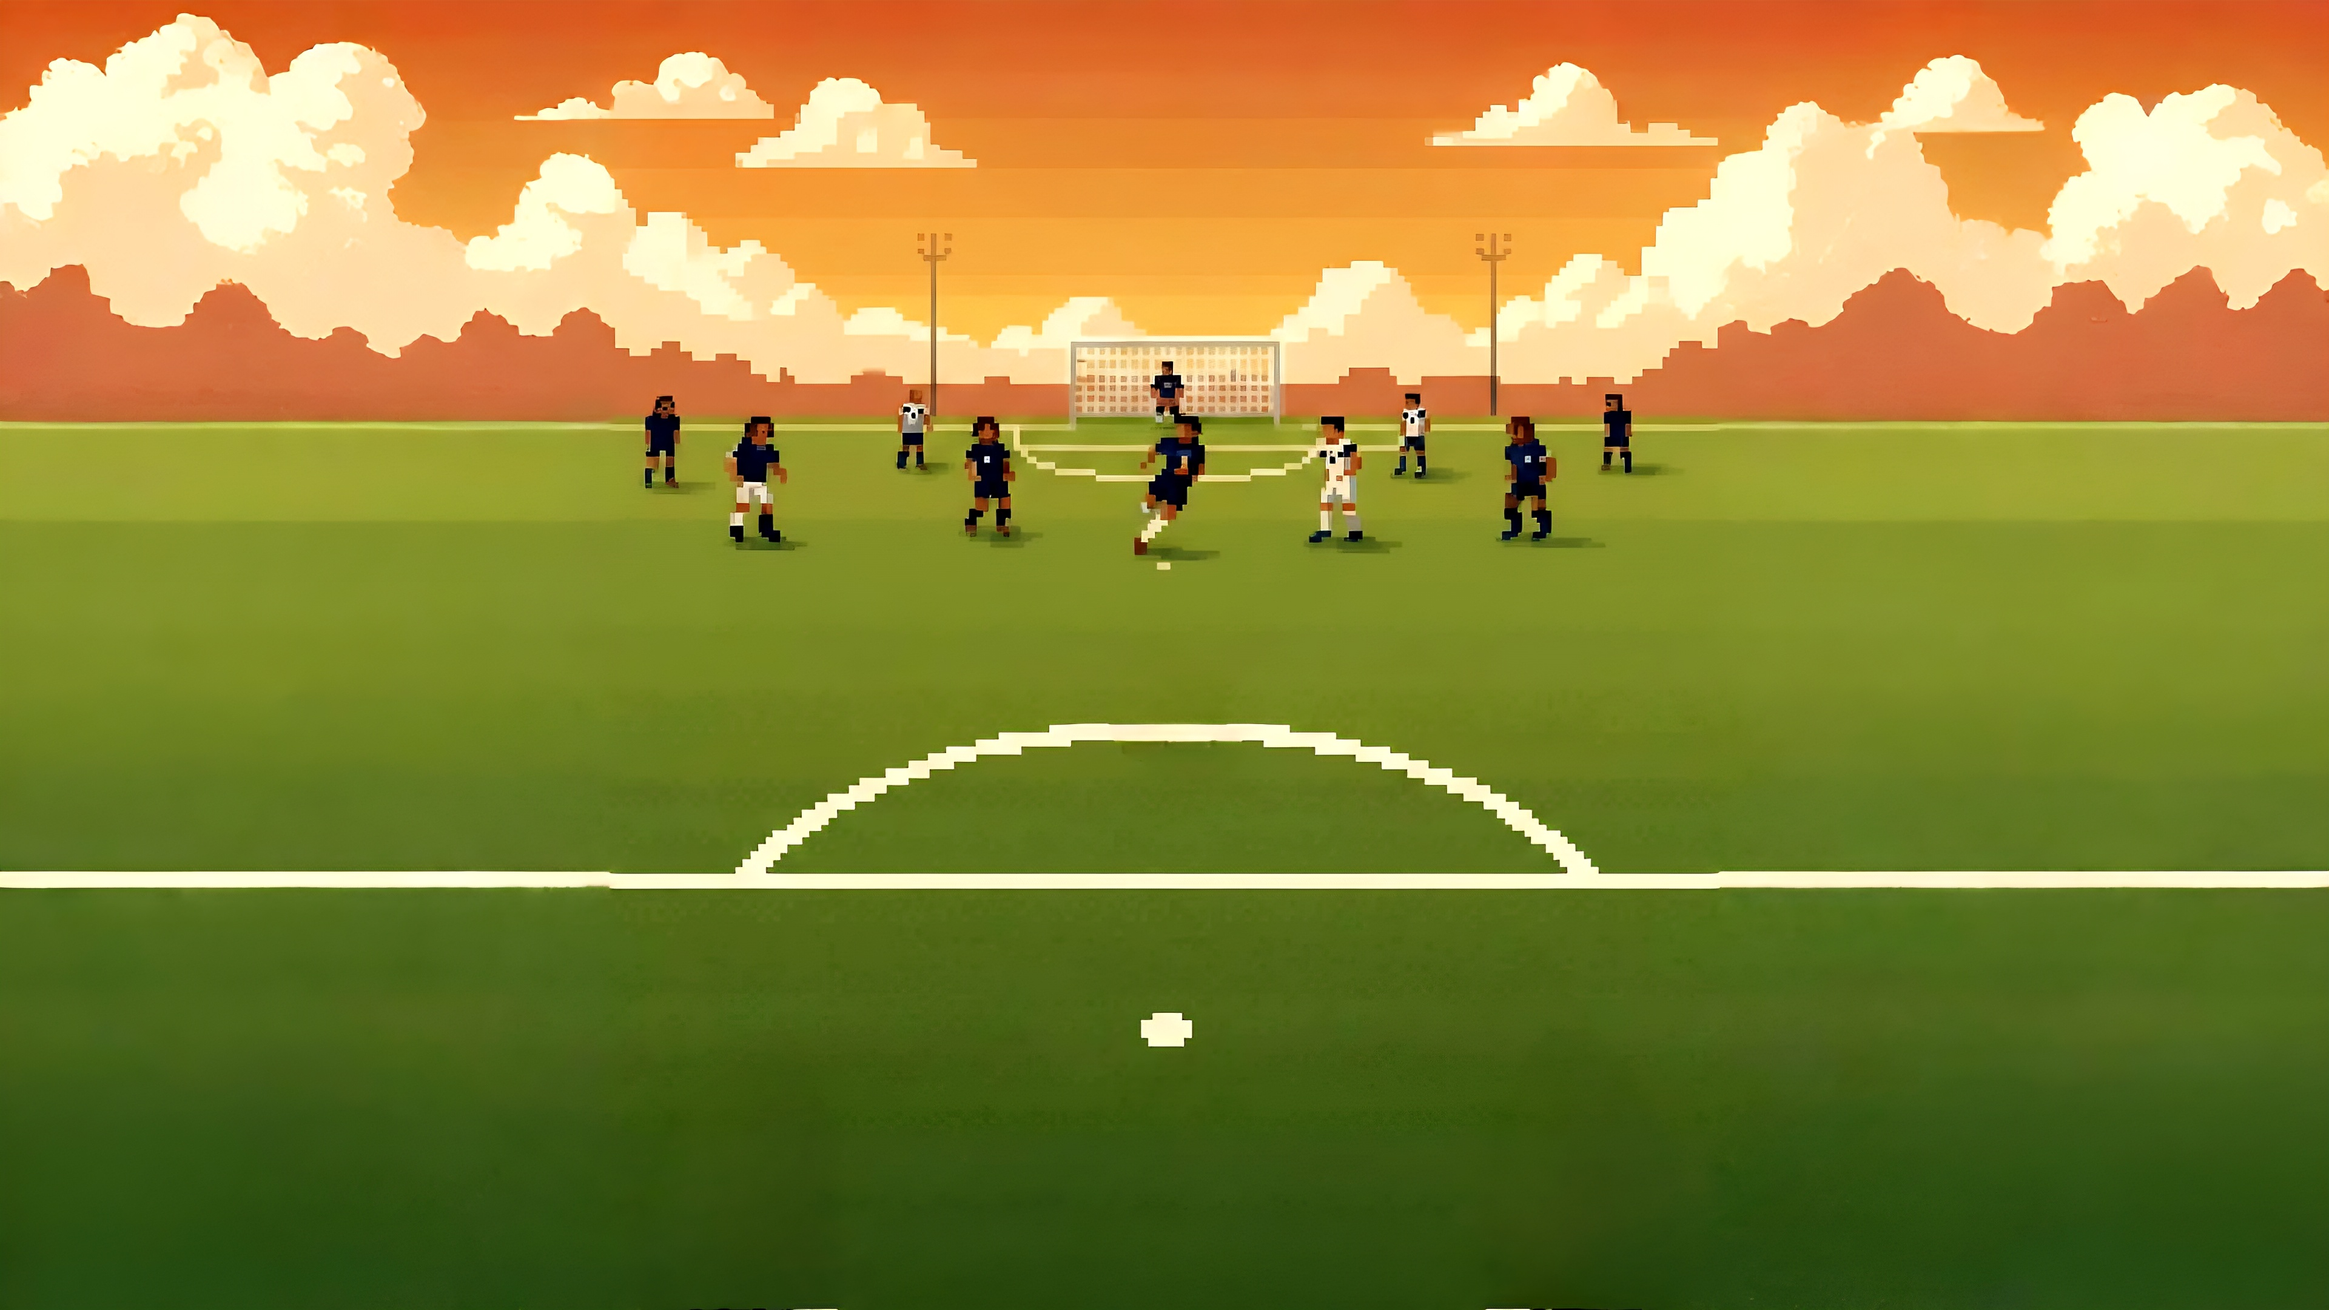
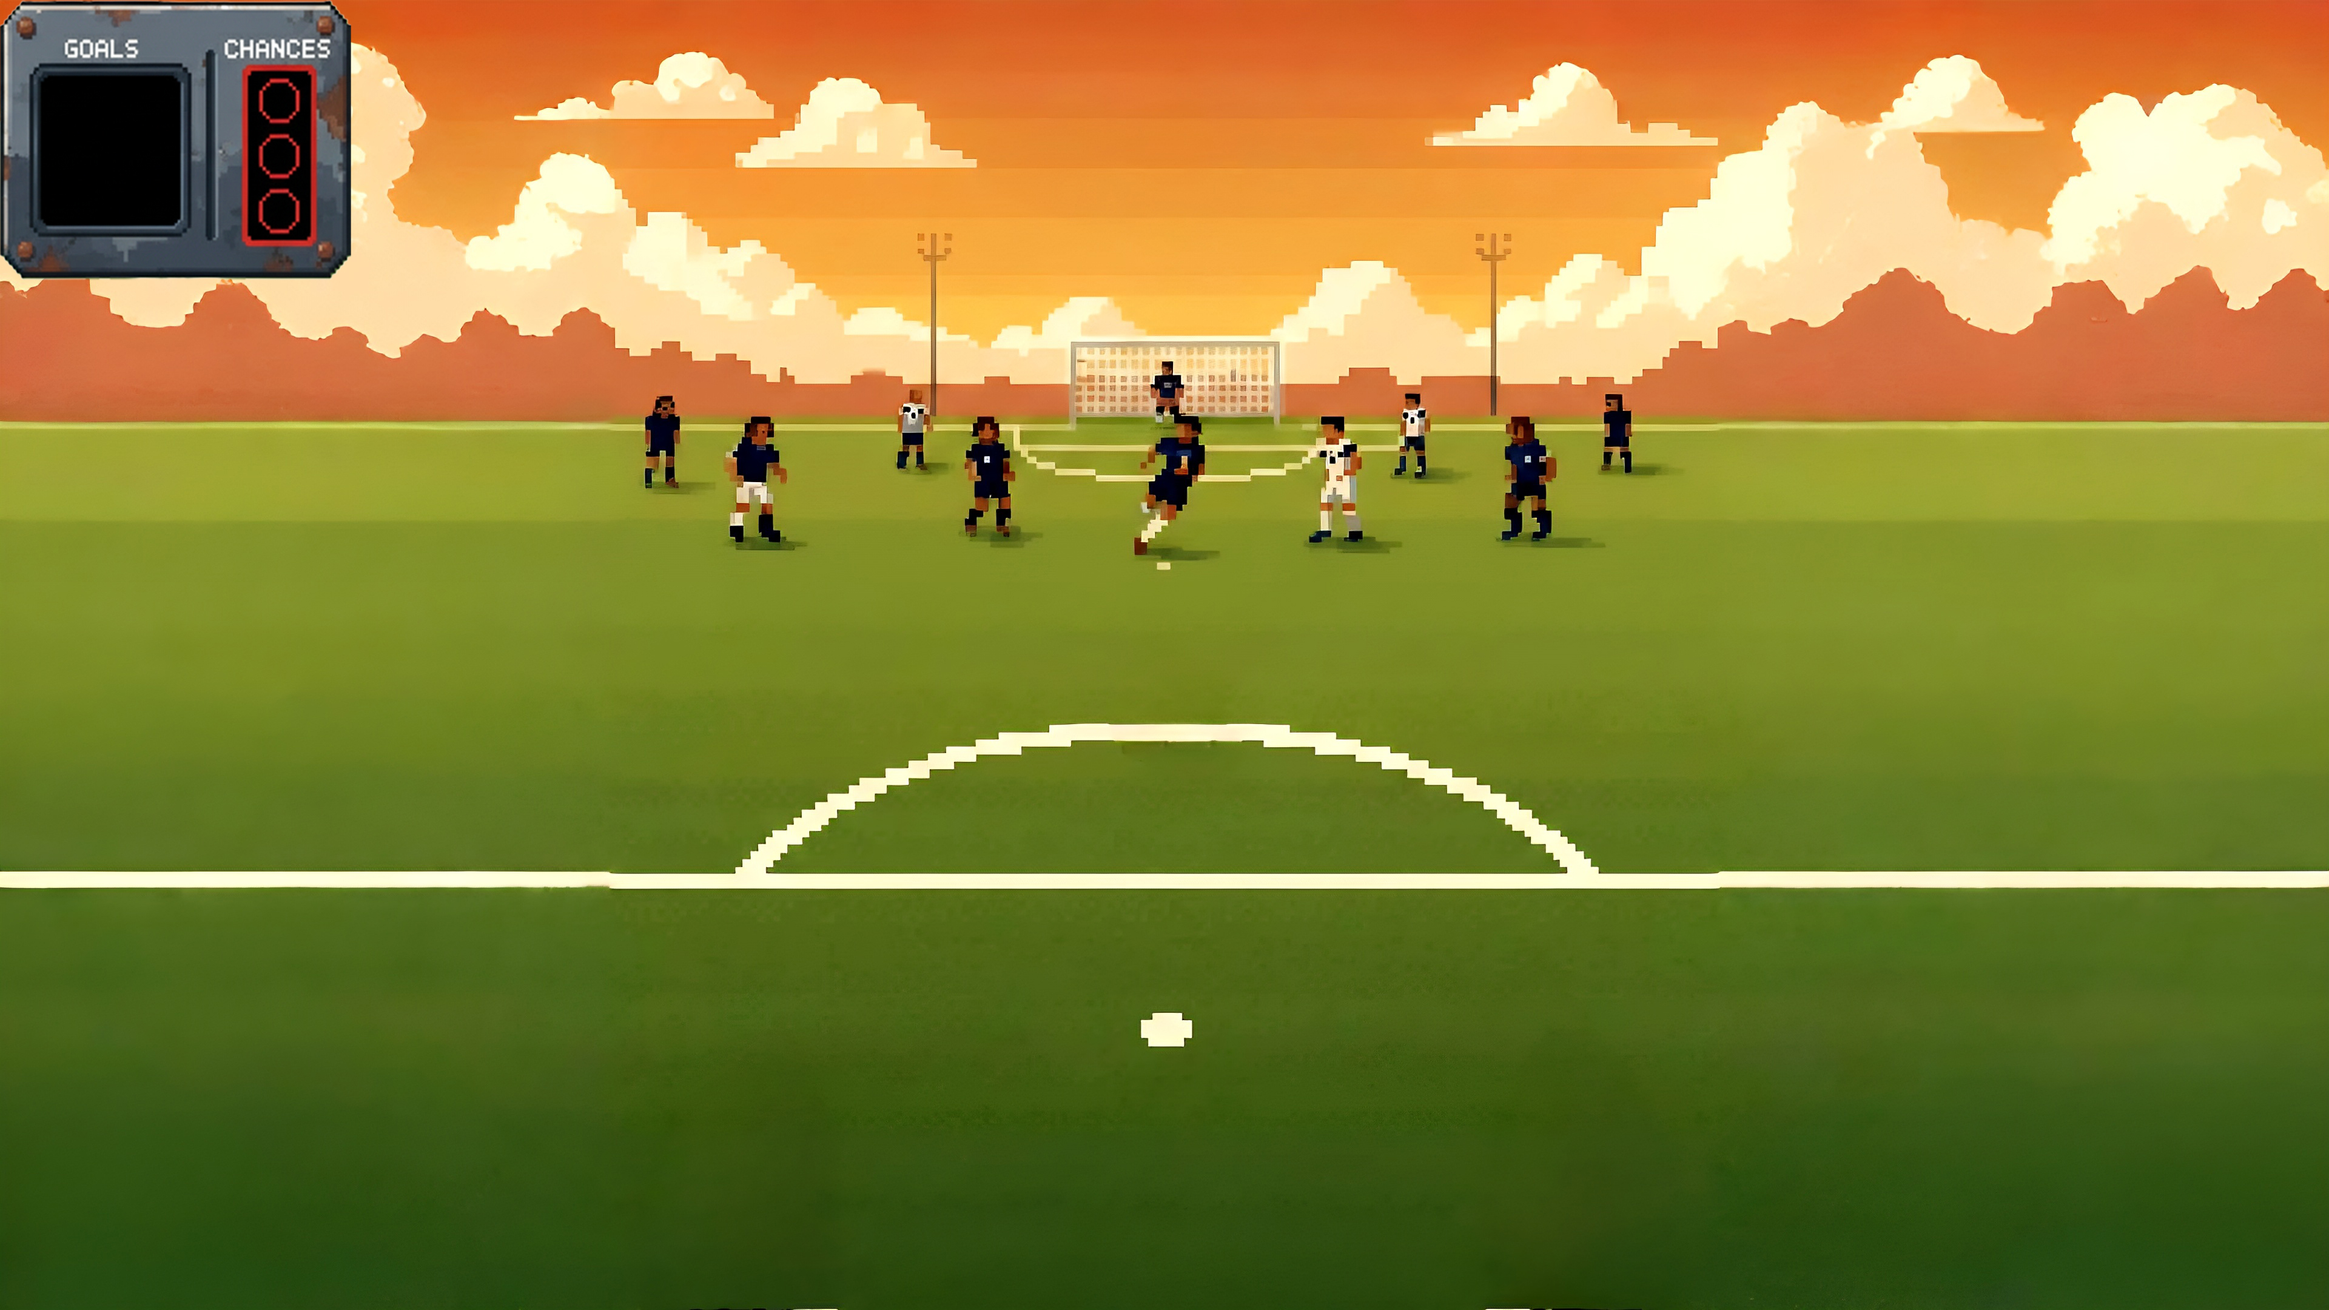
Se agrego: marcador de puntaje, pantalla de game over, pantalla de menu, se modifico el fondo de juego

Changed region(s): [[0.0, 0.0, 0.1562, 0.2171]]

diff --git a/vista/pygame_renderer.py b/vista/pygame_renderer.py
@@ -25,7 +25,6 @@ class PygameRenderer:
         self.clock = pygame.time.Clock()
 
         # Rutas de recursos (asumiendo que la estructura de directorios funciona)
-        # Nota: La clase BallAnimation se asume importada y funcional.
         images_dir = os.path.normpath(os.path.join(os.path.dirname(__file__), "..", "Images"))
 
         # --- Carga de recursos (omitiendo la carga real si faltan archivos) ---
@@ -40,6 +39,17 @@ class PygameRenderer:
         except pygame.error:
             print(f"Warning: Background image not found at {bg_path}")
         
+        # Crear y cachear una versión desenfocada del fondo (downscale + upscale)
+        try:
+            blur_scale = 0.06  # ajusta entre 0.02 (más blur) y 0.15 (menos blur)
+            sw = max(1, int(self.width * blur_scale))
+            sh = max(1, int(self.height * blur_scale))
+            small = pygame.transform.smoothscale(self.background, (sw, sh))
+            self.background_blur = pygame.transform.smoothscale(small, (self.width, self.height))
+        except Exception:
+            # si algo falla, usar copia normal
+            self.background_blur = self.background.copy()
+
         # Manos (usamos un rectángulo gris como fallback si faltan las imágenes)
         self.hand_w, self.hand_h = 120, 120
         hand_fallback = pygame.Surface((self.hand_w, self.hand_h), pygame.SRCALPHA)
@@ -114,6 +124,17 @@ class PygameRenderer:
         self.score = 0
         self.misses = 0
         self.max_misses = 3
+
+        # --- Configuración visual del marcador ---
+        # Posición del número de goles (coordenada midleft en el canvas lógico)
+        self.score_pos = (22.5 , 55)
+        # Origen (x,y) para la primera X de derrotas; las siguientes se apilan verticalmente hacia abajo
+        self.misses_icons_origin = (72, 32)
+        # Tamaño y separación de cada icono X (en píxeles)
+        self.miss_icon_size = 10
+        self.miss_icon_spacing = 8
+        # Color de las X
+        self.miss_icon_color = (230, 40, 40)
         
         # Escalado progresivo - INICIA PEQUEÑA (0.2)
         self.ball_scale = 0.2  # CAMBIADO: ahora inicia pequeña
@@ -128,6 +149,50 @@ class PygameRenderer:
         self._move_target_right = self.width - self.ball_half_w
         self._move_target_top = self.ball_half_h
         self._move_target_bottom = self.height - self.ball_half_h
+
+        # --- Game over: cargar imagen y fuentes ---
+        self.game_over = False
+        self.game_over_image = None
+        self.game_over_instr_font = pygame.font.Font(None, 20)
+        self.game_over_font = pygame.font.Font(None, 72)
+        try:
+            go_path = os.path.join(images_dir, "game_over.png")  # coloca la imagen que enviaste como Images/game_over.png
+            img = pygame.image.load(go_path).convert_alpha()
+            # Escalar para que encaje en la ventana manteniendo aspecto (95% del área disponible)
+            iw, ih = img.get_size()
+            if iw == 0 or ih == 0:
+                raise Exception("invalid image size")
+            fit_scale = min(self.width / iw, self.height / ih) * 0.95
+            new_w = max(1, int(iw * fit_scale))
+            new_h = max(1, int(ih * fit_scale))
+            self.game_over_image = pygame.transform.smoothscale(img, (new_w, new_h))
+            # guardar rect centrado para usar en render()
+            self.game_over_image_rect = self.game_over_image.get_rect(center=(self.width // 2, self.height // 2))
+        except Exception:
+             # si no existe la imagen, se usará texto grande
+            self.game_over_image = None
+            self.game_over_image_rect = None
+
+        # --- Menu inicial ---
+        self.show_menu = True
+        self.menu_image = None
+        self.menu_image_rect = None
+        self.menu_instr_font = pygame.font.Font(None, 28)
+        try:
+            menu_path = os.path.join(images_dir, "menu.png")  # pon la imagen del menú aquí: Images/menu.png
+            mimg = pygame.image.load(menu_path).convert_alpha()
+            mw, mh = mimg.get_size()
+            if mw == 0 or mh == 0:
+                raise Exception("invalid menu image")
+            menu_scale = min(self.width / mw, self.height / mh) * 0.95
+            mw2 = max(1, int(mw * menu_scale))
+            mh2 = max(1, int(mh * menu_scale))
+            self.menu_image = pygame.transform.smoothscale(mimg, (mw2, mh2))
+            self.menu_image_rect = self.menu_image.get_rect(center=(self.width // 2, self.height // 2))
+        except Exception:
+            # si no existe la imagen, se usará texto simple como menú
+            self.menu_image = None
+            self.menu_image_rect = None
 
     def _compute_fullscreen_scaler(self):
         # sin cambio
@@ -237,7 +302,7 @@ class PygameRenderer:
 
     def _launch_ball_to_random_target(self):
         """Lanza la pelota a una posición aleatoria con tiempo constante"""
-        if self.ball_launching or self.ball_caught:
+        if self.ball_launching or self.ball_caught or self.game_over:
             return
         
         # Posición inicial
@@ -313,6 +378,21 @@ class PygameRenderer:
             if event.type == pygame.QUIT:
                 return False
             if event.type == pygame.KEYDOWN:
+                # cuando estamos en menú, ENTER inicia juego y ESC sale
+                if self.show_menu:
+                    if event.key == pygame.K_ESCAPE:
+                        return False
+                    if event.key == pygame.K_RETURN or event.key == pygame.K_KP_ENTER:
+                        # comenzar juego
+                        self.show_menu = False
+                        self.score = 0
+                        self.misses = 0
+                        self.game_over = False
+                        self._reset_ball_position()
+                        print("Juego iniciado (ENTER desde menú).")
+                    # ignorar el resto de teclas mientras esté el menú
+                    continue
+                
                 if event.key == pygame.K_ESCAPE:
                     return False
                 if event.key == pygame.K_f:
@@ -329,8 +409,51 @@ class PygameRenderer:
                 
                 # Tecla 'Enter' LANZA la pelota a objetivo aleatorio (MODIFICADO)
                 if event.key == pygame.K_RETURN or event.key == pygame.K_KP_ENTER:
-                    if not self.ball_launching and not self.ball_moving:
-                        self._launch_ball_to_random_target()
+                    # si estamos en game over -> reiniciar; si no, lanzar
+                    if self.game_over:
+                        # reiniciar todo el estado del juego
+                        self.score = 0
+                        self.misses = 0
+                        self.game_over = False
+                        self._reset_ball_position()
+                        print("Juego reiniciado (Enter).")
+                    else:
+                        if not self.ball_launching and not self.ball_moving:
+                            self._launch_ball_to_random_target()
+
+        # Si estamos en el menú, dibujar y devolver sin ejecutar la lógica del juego
+        if self.show_menu:
+            # dibujar fondo y menú centrado
+            # usar la versión desenfocada si está disponible
+            if getattr(self, "background_blur", None) is not None:
+                self.canvas.blit(self.background_blur, (0, 0))
+            else:
+                self.canvas.blit(self.background, (0, 0))
+            if self.menu_image is not None:
+                self.canvas.blit(self.menu_image, self.menu_image_rect.topleft)
+                instr = self.menu_instr_font.render("Pulsa ENTER para jugar  •  ESC para salir", True, (240, 240, 240))
+                instr_rect = instr.get_rect(center=(self.width // 2, self.menu_image_rect.bottom + 24))
+                self.canvas.blit(instr, instr_rect.topleft)
+            else:
+                # fallback textual
+                title_font = pygame.font.Font(None, 96)
+                title = title_font.render("FUTBOL CAMARA", True, (255, 255, 255))
+                t_rect = title.get_rect(center=(self.width // 2, self.height // 2 - 40))
+                self.canvas.blit(title, t_rect.topleft)
+                instr = self.menu_instr_font.render("Pulsa ENTER para jugar  •  ESC para salir", True, (240, 240, 240))
+                instr_rect = instr.get_rect(center=(self.width // 2, self.height // 2 + 40))
+                self.canvas.blit(instr, instr_rect.topleft)
+
+            # Presentación y retorno temprano
+            if self.is_fullscreen:
+                scaled = pygame.transform.smoothscale(self.canvas, self.scaled_size)
+                self.screen.fill((0, 0, 0))
+                self.screen.blit(scaled, (self.offset_x, self.offset_y))
+            else:
+                self.screen.blit(self.canvas, (0, 0))
+            pygame.display.flip()
+            self.clock.tick(60)
+            return True
 
         # Actualizar movimiento con tiempo constante y trayectoria curva (COMPLETAMENTE MODIFICADO)
         if self.ball_moving and self.ball_launching:
@@ -375,10 +498,10 @@ class PygameRenderer:
                     print(f"¡Fallaste! Llevas {self.misses}/{self.max_misses} fallos")
                     self._reset_ball_position()  # Esto la reseteará a escala 0.2
                     
-                    # Verificar si se perdió el juego
+                    # Verificar si se perdió el juego -> activar game over
                     if self.misses >= self.max_misses:
+                        self.game_over = True
                         print("¡Juego terminado! Has perdido.")
-                        # Aquí podrías agregar lógica para reiniciar el juego o mostrar game over
 
         # Dibujar sobre el canvas lógico (sin cambio)
         self.canvas.blit(self.background, (0, 0))
@@ -430,19 +553,20 @@ class PygameRenderer:
 
         # Colisiones - SOLO cuando la pelota está en escala completa (MODIFICADO)
         collided = False
-        if right_rect is not None and self._check_ball_catch(right_rect, ball_rect):
-            self._handle_collision("Right", right_rect, ball_rect)
-            collided = True
-            self.score += 1
-            print(f"¡Atrapado con mano derecha! Puntuación: {self.score}")
-            self._reset_ball_position()  # Esto la reseteará a escala 0.2
-            
-        elif left_rect is not None and self._check_ball_catch(left_rect, ball_rect):
-            self._handle_collision("Left", left_rect, ball_rect)
-            collided = True
-            self.score += 1
-            print(f"¡Atrapado con mano izquierda! Puntuación: {self.score}")
-            self._reset_ball_position()  # Esto la reseteará a escala 0.2
+        if not self.game_over:
+            if right_rect is not None and self._check_ball_catch(right_rect, ball_rect):
+                self._handle_collision("Right", right_rect, ball_rect)
+                collided = True
+                self.score += 1
+                print(f"¡Atrapado con mano derecha! Puntuación: {self.score}")
+                self._reset_ball_position()  # Esto la reseteará a escala 0.2
+                
+            elif left_rect is not None and self._check_ball_catch(left_rect, ball_rect):
+                self._handle_collision("Left", left_rect, ball_rect)
+                collided = True
+                self.score += 1
+                print(f"¡Atrapado con mano izquierda! Puntuación: {self.score}")
+                self._reset_ball_position()  # Esto la reseteará a escala 0.2
 
         # Mostrar hitboxes si corresponde (sin cambio)
         if self.show_hitboxes:
@@ -455,12 +579,27 @@ class PygameRenderer:
                 pygame.draw.rect(self.canvas, box_color, left_rect, 2)
             pygame.draw.rect(self.canvas, box_color, ball_rect, 2)
 
-        # Mostrar información de puntuación (NUEVO)
+        # Mostrar información de puntuación
         font = pygame.font.Font(None, 36)
-        score_text = font.render(f"Puntuación: {self.score}", True, (255, 255, 255))
-        misses_text = font.render(f"Fallos: {self.misses}/{self.max_misses}", True, (255, 255, 255))
-        self.canvas.blit(score_text, (10, 10))
-        self.canvas.blit(misses_text, (10, 50))
+        # dibujar goles (número)
+        score_text = font.render(str(self.score), True, (255, 255, 255))
+        score_rect = score_text.get_rect(midleft=self.score_pos)
+        self.canvas.blit(score_text, score_rect.topleft)
+
+        # dibujar derrotas como X rojas verticales a la derecha del marcador
+        icon_x, icon_y = self.misses_icons_origin
+        size = self.miss_icon_size
+        gap = self.miss_icon_spacing
+        for i in range(self.max_misses):
+            y = icon_y + i * (size + gap)
+            rect = pygame.Rect(icon_x, y, size, size)
+            # sólo dibujar X si ese índice corresponde a un fallo ya ocurrido
+            if i < self.misses:
+                c = self.miss_icon_color
+                # dibujar X con 3px de grosor
+                pygame.draw.line(self.canvas, c, rect.topleft, rect.bottomright, 3)
+                pygame.draw.line(self.canvas, c, (rect.left, rect.bottom), (rect.right, rect.top), 3)
+            # si no hay fallo todavía, no dibujamos nada (espacio oculto)
 
         # Mostrar indicador de trayectoria (DEBUG - opcional)
         if self.ball_launching and self.show_hitboxes:
@@ -490,6 +629,42 @@ class PygameRenderer:
             self.screen.blit(scaled, (self.offset_x, self.offset_y))
         else:
             self.screen.blit(self.canvas, (0, 0))
+
+        # Si estamos en estado de game over, dibujar overlay con la imagen y pedir ENTER para reiniciar
+        if self.game_over:
+            # Semitransparencia sobre el canvas
+            overlay = pygame.Surface((self.width, self.height), pygame.SRCALPHA)
+            overlay.fill((0, 0, 0, 160))
+            self.canvas.blit(overlay, (0, 0))
+
+            if self.game_over_image is not None:
+                iw, ih = self.game_over_image.get_size()
+                go_x = (self.width - iw) // 2
+                go_y = (self.height - ih) // 2
+                self.canvas.blit(self.game_over_image, (go_x, go_y))
+                instr = self.game_over_instr_font.render("Pulsa ENTER para reiniciar", True, (240, 240, 240))
+                instr_rect = instr.get_rect(center=(self.width//2, go_y + ih + 24))
+                self.canvas.blit(instr, instr_rect.topleft)
+            else:
+                # Texto grande centrado como fallback
+                go_text = self.game_over_font.render("GAME OVER", True, (255, 40, 40))
+                g_rect = go_text.get_rect(center=(self.width // 2, self.height // 2 - 20))
+                self.canvas.blit(go_text, g_rect.topleft)
+                instr = self.game_over_instr_font.render("Pulsa ENTER para reiniciar", True, (240, 240, 240))
+                instr_rect = instr.get_rect(center=(self.width // 2, self.height // 2 + 40))
+                self.canvas.blit(instr, instr_rect.topleft)
+
+            # Re-blit final (para fullscreen se escala la canvas ya actualizada)
+            if self.is_fullscreen:
+                scaled = pygame.transform.smoothscale(self.canvas, self.scaled_size)
+                self.screen.fill((0, 0, 0))
+                self.screen.blit(scaled, (self.offset_x, self.offset_y))
+            else:
+                self.screen.blit(self.canvas, (0, 0))
+
+            pygame.display.flip()
+            self.clock.tick(30)
+            return True
 
         pygame.display.flip()
         # Limitar FPS (sin cambio)
